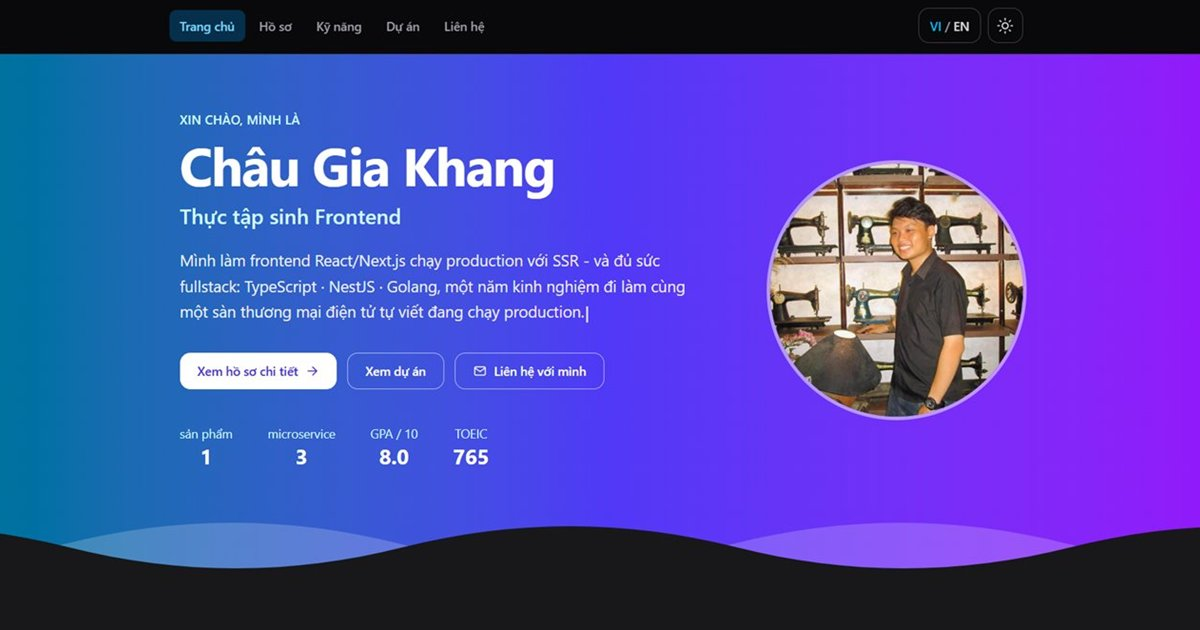
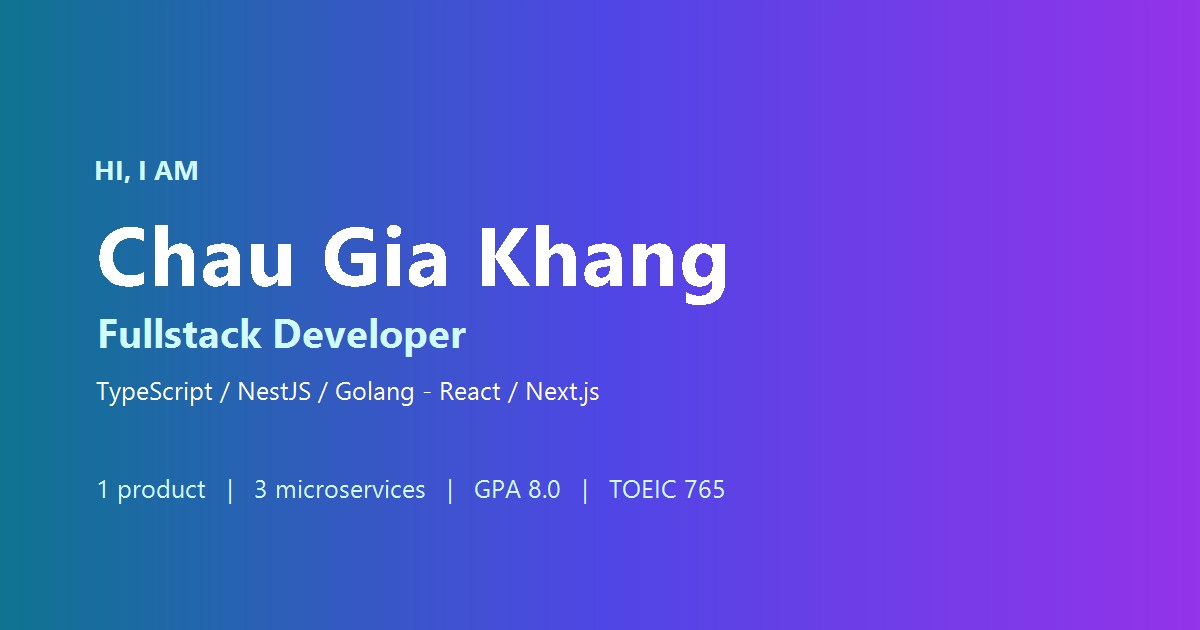
chore: point the site at the personal portfolio domain and drop outdated screenshots

diff --git a/index.html b/index.html
@@ -13,10 +13,10 @@
 
     <meta property="og:type" content="website" />
     <meta property="og:locale" content="vi_VN" />
-    <meta property="og:url" content="https://portfolio-pks-tech-edu.vercel.app/" />
+    <meta property="og:url" content="https://chau-gia-khang-portfolio.vercel.app/" />
     <meta property="og:title" content="Châu Gia Khang - Fullstack Developer" />
     <meta property="og:description" content="CV trực tuyến: fullstack mạnh backend (NestJS, Golang), 4 dự án tự viết và vận hành, song ngữ Việt/Anh." />
-    <meta property="og:image" content="https://portfolio-pks-tech-edu.vercel.app/og-image.jpg" />
+    <meta property="og:image" content="https://chau-gia-khang-portfolio.vercel.app/og-image.jpg" />
     <meta property="og:image:width" content="1200" />
     <meta property="og:image:height" content="630" />
     <meta property="og:image:alt" content="Trang chu CV cua Chau Gia Khang" />
@@ -24,7 +24,7 @@
     <meta name="twitter:card" content="summary_large_image" />
     <meta name="twitter:title" content="Châu Gia Khang - Fullstack Developer" />
     <meta name="twitter:description" content="CV trực tuyến: fullstack mạnh backend (NestJS, Golang), 4 dự án tự viết và vận hành, song ngữ Việt/Anh." />
-    <meta name="twitter:image" content="https://portfolio-pks-tech-edu.vercel.app/og-image.jpg" />
+    <meta name="twitter:image" content="https://chau-gia-khang-portfolio.vercel.app/og-image.jpg" />
   </head>
   <body>
     <div id="root"></div>

diff --git a/README.md b/README.md
@@ -4,15 +4,11 @@
 
 CV dạng website (single page application) với 5 trang, song ngữ Việt/Anh, dark mode và hai hiệu ứng chuyển trang.
 
-**Demo:** <https://portfolio-pks-tech-edu.vercel.app>
+**Demo:** <https://chau-gia-khang-portfolio.vercel.app>
 
 ## Giao diện
 
-| Trang chủ - giao diện tối | Hồ sơ chi tiết - giao diện sáng |
-| --- | --- |
-| ![Trang chủ với hero banner gradient và ảnh đại diện](docs/screenshots/home-desktop.jpg) | ![Trang hồ sơ với thông tin cá nhân và mục tiêu nghề nghiệp](docs/screenshots/resume-desktop.jpg) |
-| **Chi tiết dự án trong hộp thoại** | **Menu điều hướng ở khổ mobile** |
-| ![Hộp thoại chi tiết dự án Chat Service mở đè lên trang Dự án](docs/screenshots/projects-modal.jpg) | ![Menu hamburger đang mở trên màn hình nhỏ](docs/screenshots/mobile-menu.png) |
+![Hộp thoại chi tiết dự án Chat Service mở đè lên trang Dự án](docs/screenshots/projects-modal.jpg)
 
 ## Công nghệ
 

diff --git a/README.en.md b/README.en.md
@@ -4,15 +4,11 @@
 
 A CV as a single page application: 5 pages, Vietnamese/English content, dark mode and two page transitions.
 
-**Demo:** <https://portfolio-pks-tech-edu.vercel.app>
+**Demo:** <https://chau-gia-khang-portfolio.vercel.app>
 
 ## Screens
 
-| Home - dark theme | Resume - light theme |
-| --- | --- |
-| ![Home page with the gradient hero banner and avatar](docs/screenshots/home-desktop.jpg) | ![Resume page with personal details and career objective](docs/screenshots/resume-desktop.jpg) |
-| **Project details in a dialog** | **Navigation menu on mobile** |
-| ![Chat Service project dialog open over the projects page](docs/screenshots/projects-modal.jpg) | ![Hamburger menu open on a small screen](docs/screenshots/mobile-menu.png) |
+![Chat Service project dialog open over the projects page](docs/screenshots/projects-modal.jpg)
 
 ## Tech stack
 
